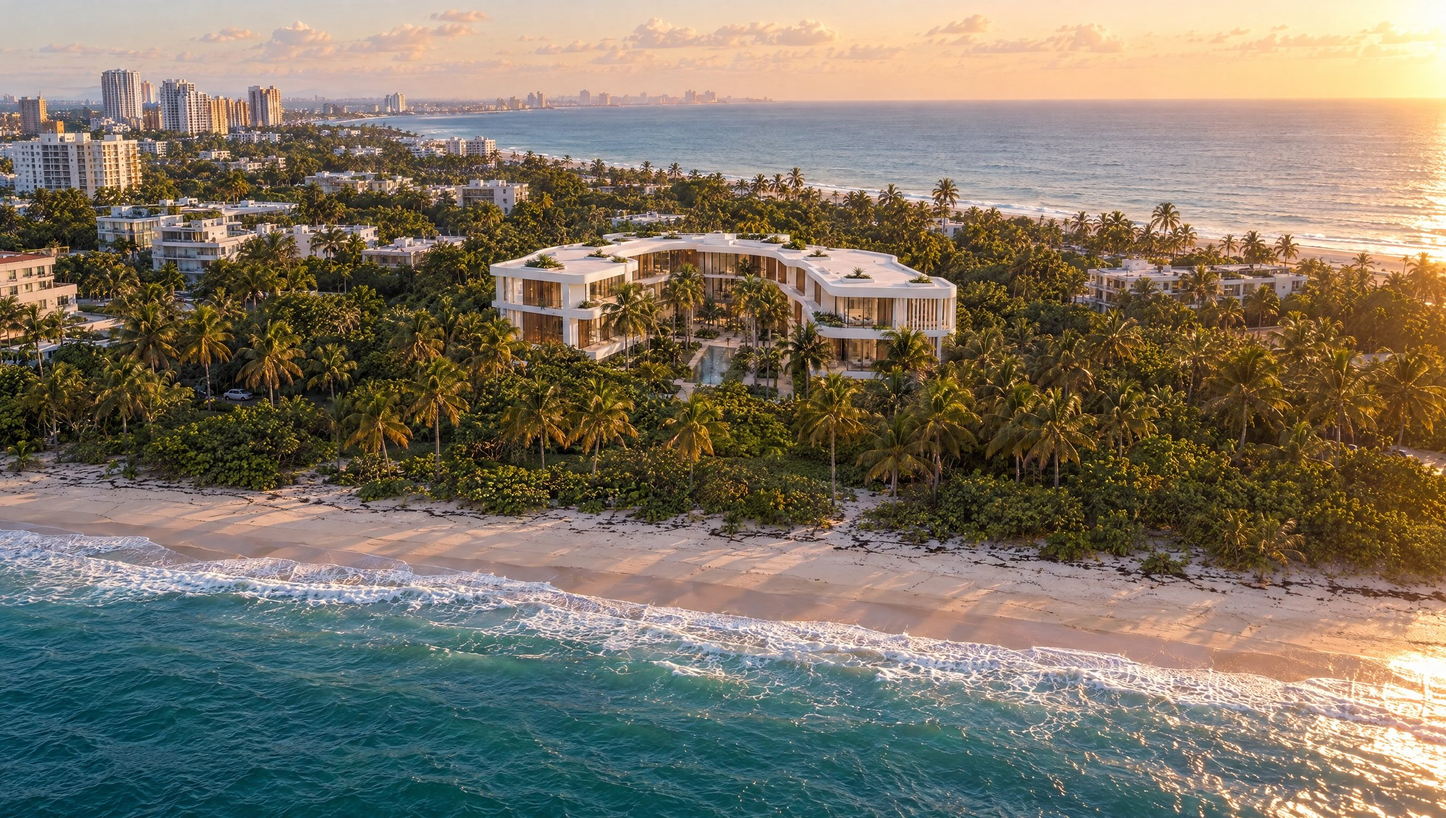
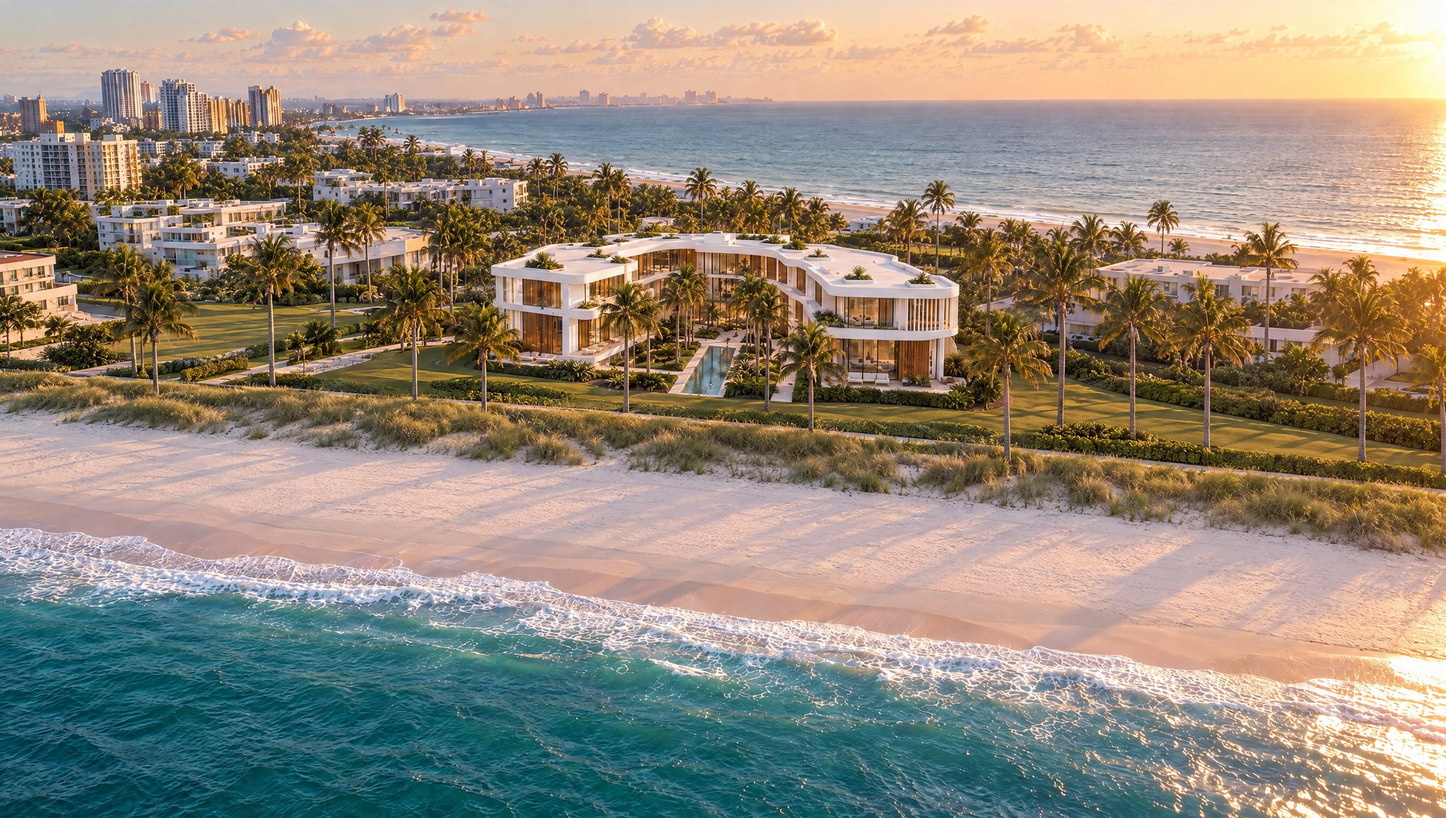
Replace coastal view with minimal, manicured landscaping
The establishing image showed wild scrub and seaweed between the beach
and the building. The new version keeps the same building and angle
with a clean beach, a low clipped dune, lawn and an orderly row of
royal palms, matching the rest of the imagery.

Claude-Session: https://claude.ai/code/session_01S7b28xHt44m2WStmS8adg2

diff --git a/es/index.html b/es/index.html
@@ -97,7 +97,7 @@
   <section class="immersive" id="architecture">
     <div class="immersive__sticky">
     <figure class="immersive__frame">
-      <img src="/assets/img/establishing.jpg?v=3" alt="Vista aérea conceptual de residencias blancas escultóricas junto a la costa de Isla Verde" loading="lazy">
+      <img src="/assets/img/establishing.jpg?v=4" alt="Vista aérea conceptual de residencias blancas escultóricas junto a la costa de Isla Verde" loading="lazy">
     </figure>
     <div class="immersive__caption">
       <p class="eyebrow eyebrow--light" data-i18n="arch.eyebrow">Arquitectura</p>

diff --git a/index.html b/index.html
@@ -97,7 +97,7 @@
   <section class="immersive" id="architecture">
     <div class="immersive__sticky">
     <figure class="immersive__frame">
-      <img src="/assets/img/establishing.jpg?v=3" alt="Conceptual aerial view of sculptural white residences near the Isla Verde shoreline" loading="lazy">
+      <img src="/assets/img/establishing.jpg?v=4" alt="Conceptual aerial view of sculptural white residences near the Isla Verde shoreline" loading="lazy">
     </figure>
     <div class="immersive__caption">
       <p class="eyebrow eyebrow--light" data-i18n="arch.eyebrow">Architecture</p>
